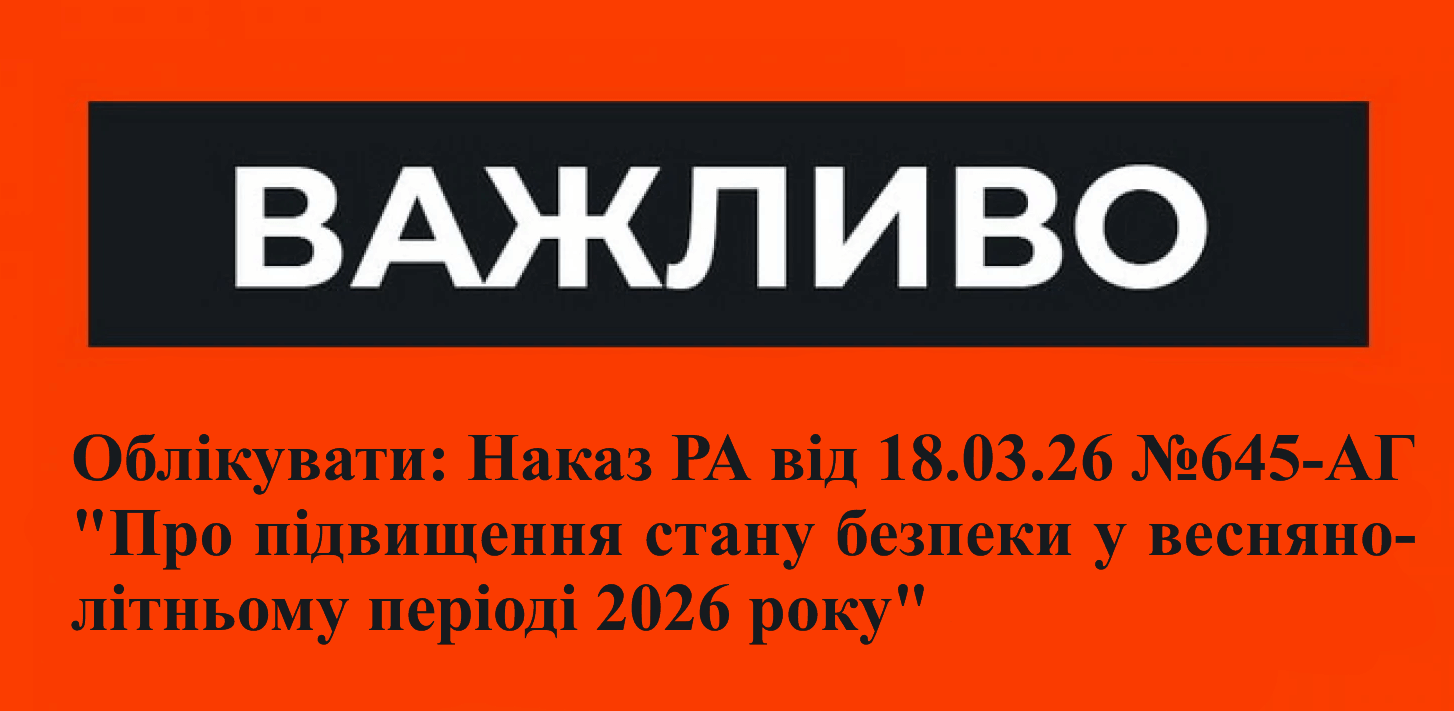
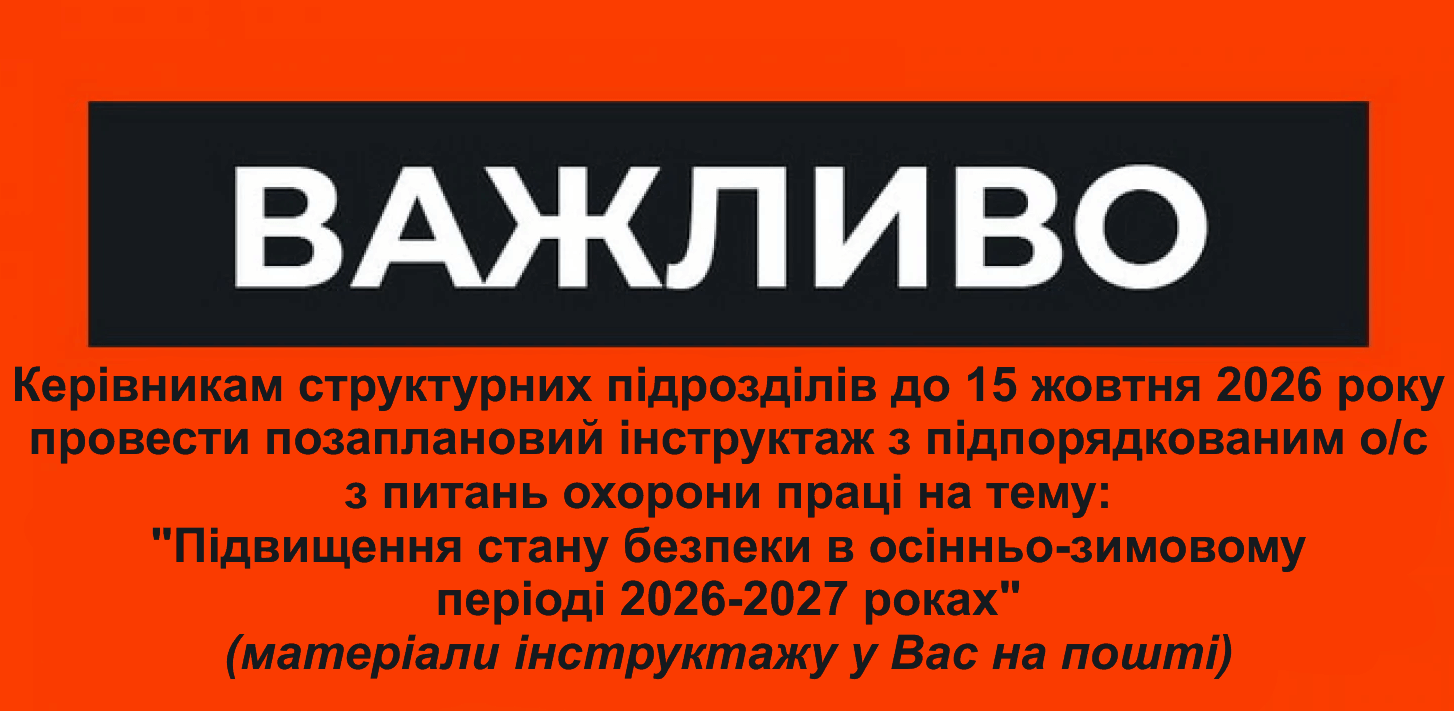
зміни 20.12.26

Changed region(s): [[0.0, 0.4951, 1.0, 0.9592]]

diff --git a/index.html b/index.html
@@ -333,7 +333,7 @@
 
       <div class="container" data-aos="fade-up" data-aos-delay="100">
         <div class="container section-title" data-aos="fade-up">
-          <p>Рівень травматизму станом на 23 квітня 2026 року<br></p>
+          <p>Рівень травматизму протягом 2026 року<br></p>
         </div>
         <div class="row gy-4">
 
@@ -341,7 +341,7 @@
             <div class="stats-item d-flex align-items-center w-100 h-100">
               <i class="bi bi-people color-pink flex-shrink-0"></i>
               <div>
-                <a>5 нещасних випадків = 31,5 %</a>
+                <a>20 нещасних випадків </a>
                 <p>2 факультет</p>
               </div>
             </div>
@@ -351,7 +351,7 @@
             <div class="stats-item d-flex align-items-center w-100 h-100">
               <i class="bi bi-people color-pink flex-shrink-0"></i>
               <div>
-                <a>2 нещасних випадки = 10,5 %</a>
+                <a>15 нещасних випадків</a>
                 <p>3 факультет</p>
               </div>
             </div>
@@ -361,7 +361,7 @@
             <div class="stats-item d-flex align-items-center w-100 h-100">
               <i class="bi bi-people color-pink flex-shrink-0"></i>
               <div>
-                <a>4 нещасних випадки = 20,5 %</a>
+                <a>17 нещасних випадків </a>
                 <p>4 факультет</p>
               </div>
             </div>
@@ -371,7 +371,7 @@
             <div class="stats-item d-flex align-items-center w-100 h-100">
               <i class="bi bi-people color-pink flex-shrink-0"></i>
               <div>
-                <a>7 нещасний випадків = 36,8%</a>
+                <a>10 нещасних випадків </a>
                 <p>інші підрозділи</p>
               </div>
             </div>
